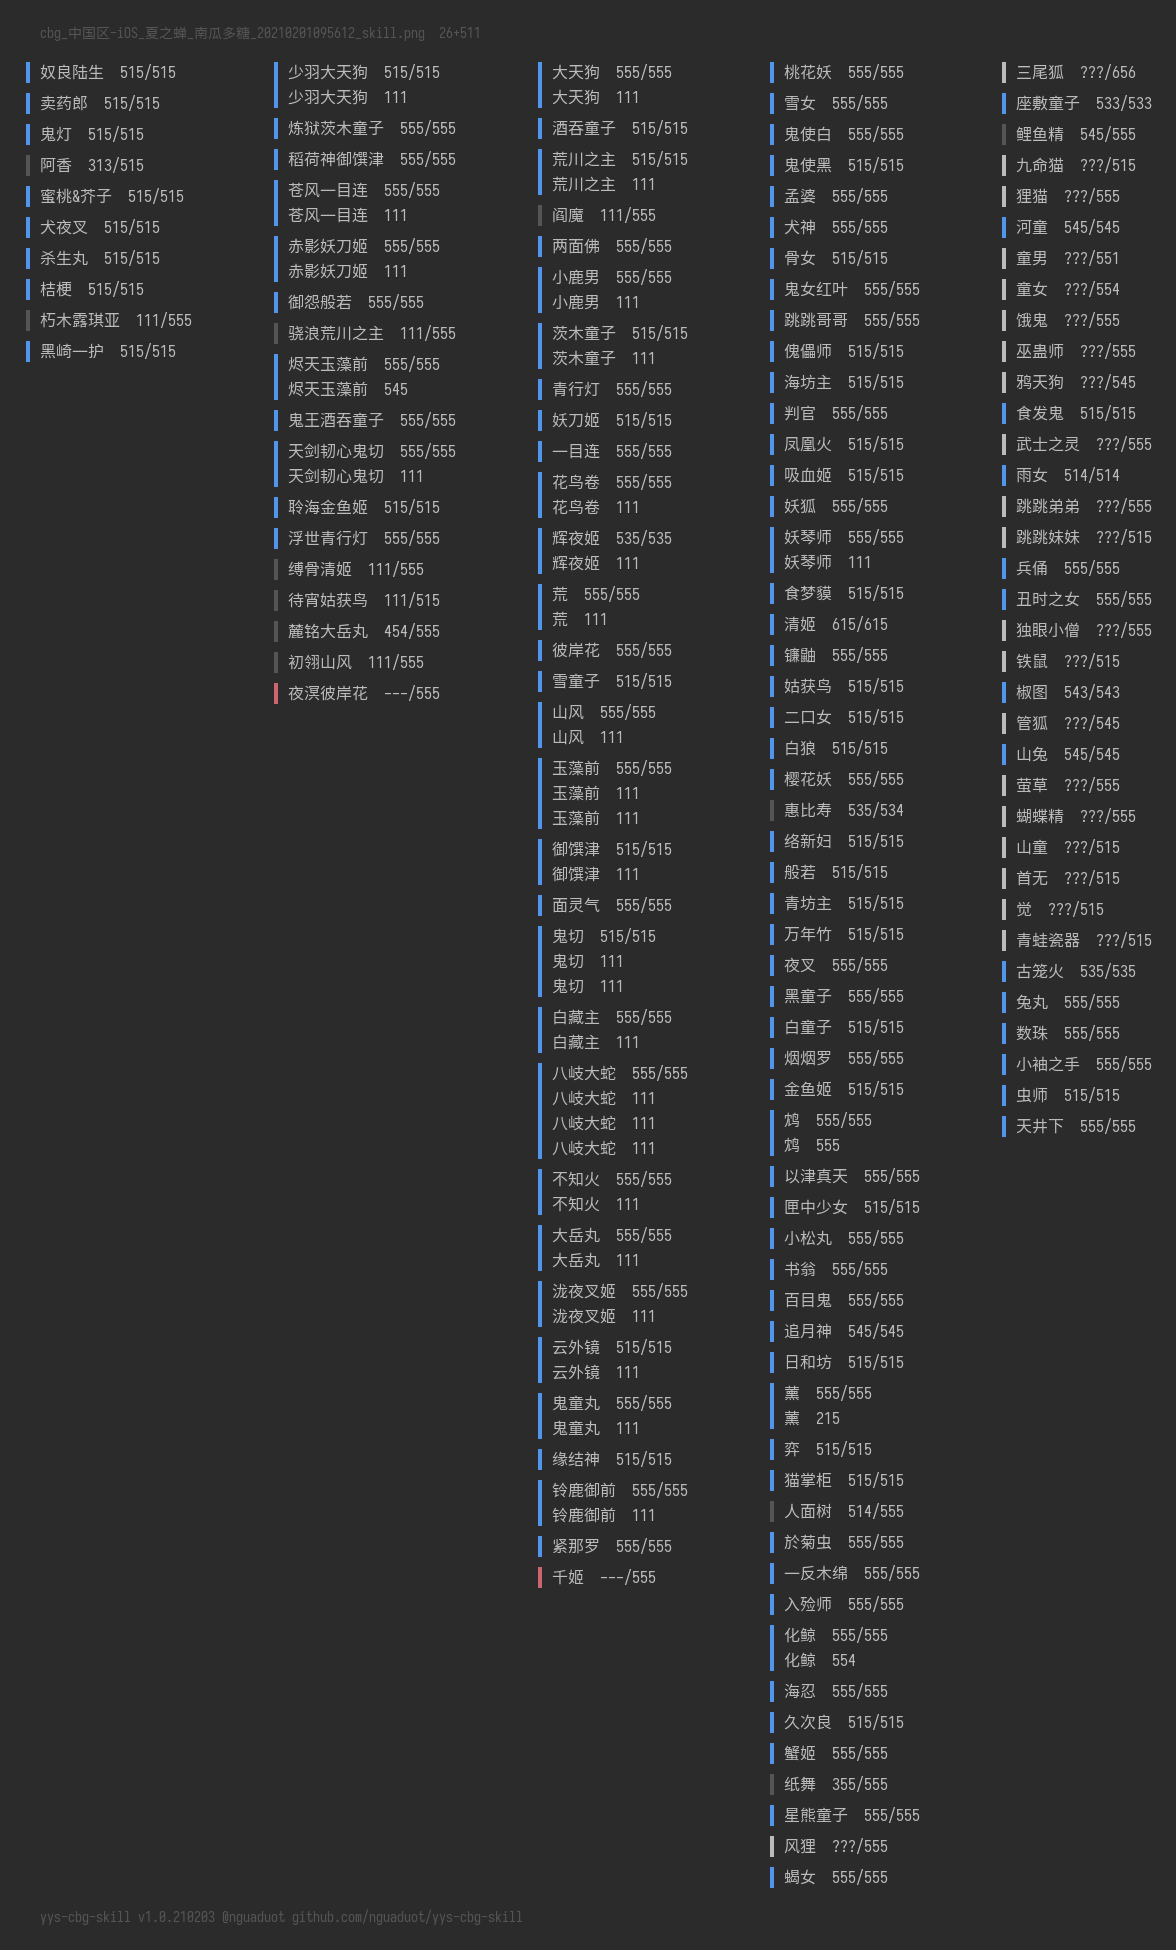
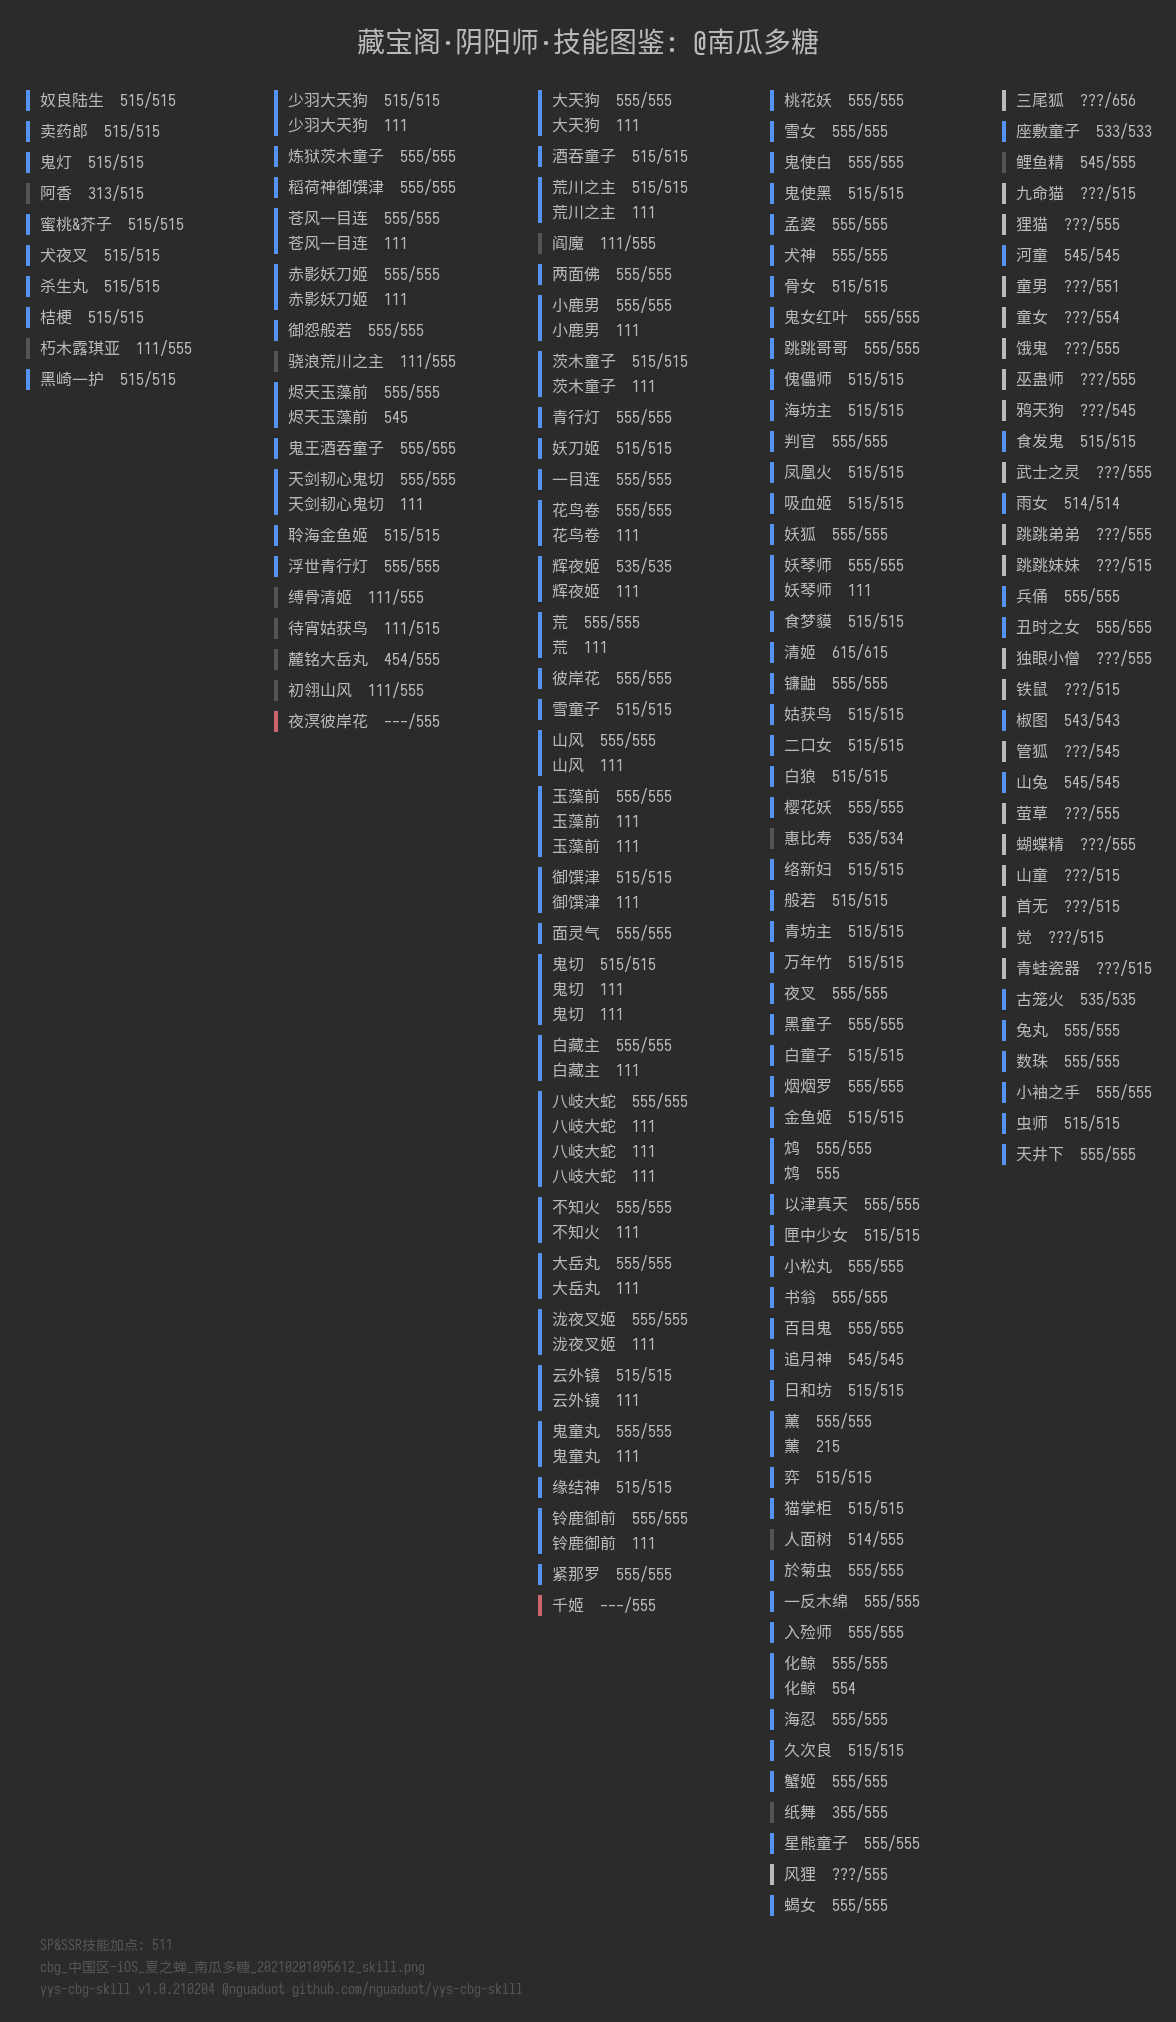
v1.0

diff --git a/code/cbg_skill.py b/code/cbg_skill.py
@@ -7,8 +7,8 @@
 # 了解更多请前往 GitHub 查看项目：https://github.com/nguaduot/yys-cbg-skill
 #
 # author: @nguaduot 痒痒鼠@南瓜多糖
-# version: 1.0.210203
-# date: 20210203
+# version: 1.0.210205
+# date: 20210205
 
 import datetime
 import getopt
@@ -21,13 +21,14 @@ import re
 import sys
 from threading import Thread
 from urllib import request
+from urllib import parse
 
 from modules import output
 
 PROG = 'yys-cbg-skill'
 AUTH = 'nguaduot'
 VER = '1.0'
-VERSION = '1.0.210203'
+VERSION = '1.0.210205'
 REL = 'github.com/nguaduot/yys-cbg-skill'
 COPYRIGHT = '%s v%s @%s %s' % (PROG, VERSION, AUTH, REL)
 HELP = '''+ 选项：
@@ -37,7 +38,8 @@ HELP = '''+ 选项：
 + 若未指定 -u, 程序会读取未知参数, 若也无未知参数, 不启动程序'
 + 不带任何参数也可启动程序, 会有参数输入引导'''
 
-HERO_RARITY = ['', 'N', 'R', 'SR', 'SSR', 'SP']  # 式神稀有度索引
+HERO_RARITY = {5: 'sp', 4: 'ssr', 3: 'sr', 2: 'r', 1: 'n'}  # 式神稀有度索引
+RARITY_SHOWN = ['x', 'sp', 'ssr', 'sr', 'r']  # 设定显示的稀有度，其他则不显示(X为联动)
 HERO_ONMYOJI = {
     10: '晴明', 11: '神乐', 13: '源博雅', 12: '八百比丘尼',
     900: '神龙', 901: '白藏主', 903: '黑豹', 902: '孔雀'
@@ -201,7 +203,35 @@ HERO_SKILL_MAX = {
     '小袖之手': '555',
     '虫师': '515',
     '天井下': '555',
-    '垢尝': '515'
+    '垢尝': '515',
+    # N卡
+    '灯笼鬼': '534',
+    '提灯小僧': '515',
+    '赤舌': '555',
+    '盗墓小鬼': '511',
+    '寄生魂': '511',
+    '唐纸伞妖': '515',
+    '天邪鬼绿': '515',
+    '天邪鬼赤': '511',
+    '天邪鬼黄': '511',
+    '天邪鬼青': '511',
+    '帚神': '515',
+    '涂壁': '511',
+    # 呱
+    '大天狗呱': '515',
+    '酒吞呱': '515',
+    '荒川呱': '515',
+    '阎魔呱': '515',
+    '两面佛呱': '515',
+    '小鹿男呱': '515',
+    '茨木呱': '515',
+    '青行灯呱': '515',
+    '妖刀姬呱': '515',
+    '一目连呱': '515',
+    '花鸟卷呱': '515',
+    '辉夜姬呱': '515',
+    '荒呱': '515',
+    '彼岸花呱': '515'
 }  # 式神技能等级上限, 使用 HERO_SKILL_MAX.get(x, x) 取值而非 HERO_SKILL_MAX[x]
 
 USER_AGENT = ('Mozilla/5.0 (Windows NT 10.0; Win64; x64)'
@@ -212,7 +242,7 @@ DATA_SOURCE_CONFIG = None
 DATA_SOURCE_EQUIP = None
 
 
-def save(data_equip, data_hero_book, damo_yx_own_cost):
+def save(data_equip, data_hero_book, damo_yx_cost):
     dir_cbg = path.join(path.dirname(path.abspath(sys.argv[0])), 'cbg')
     if not path.isdir(dir_cbg):
         os.mkdir(dir_cbg)
@@ -220,7 +250,8 @@ def save(data_equip, data_hero_book, damo_yx_own_cost):
         return
     # 删除 Windows 文件名中不允许出现的字符, 以及无法正常显示且会导致 IO 异常的控制字符
     # 使用当前卖家角色昵称 equip_name，而非 seller_name，其会随买家再次上架而改变
-    seller = re.sub(
+    seller = data_equip['equip']['equip_name']
+    seller2 = re.sub(
         r'[\\/:?"<>|\u0000-\u001F\u007F-\u009F]', '',
         data_equip['equip']['equip_name']
     )
@@ -228,7 +259,7 @@ def save(data_equip, data_hero_book, damo_yx_own_cost):
                                    '%Y-%m-%d %H:%M:%S')
     file_base = path.join(dir_cbg, 'cbg_%s_%s_%s_%s' % (
         data_equip['equip']['area_name'], data_equip['equip']['server_name'],
-        seller, t.strftime('%Y%m%d%H%M%S')
+        seller2, t.strftime('%Y%m%d%H%M%S')
     ))
     file_source = '%s.json' % file_base
     file_result = '%s_skill.png' % file_base
@@ -238,9 +269,12 @@ def save(data_equip, data_hero_book, damo_yx_own_cost):
         json.dump(data_equip, f)
     print(log('已保存源数据 \'%s\'' % path.basename(file_source), 'info'))
     if output.enabled():
-        head = path.basename(file_result) + '  %d+%d' % damo_yx_own_cost
+        title = '藏宝阁·阴阳师·技能图鉴: @%s' % seller
+        feet = ('SP&SSR技能加点: %d' % damo_yx_cost,
+                path.basename(file_result),
+                COPYRIGHT)
         output.text2img(file_result, data_hero_book,
-                        head=head, foot=COPYRIGHT)
+                        title=title, feet=feet)
         print(log('已保存结果 \'*_%s\'' % file_result.rsplit('_', 1)[1], 'info'))
         view(file_result)
     else:
@@ -248,19 +282,19 @@ def save(data_equip, data_hero_book, damo_yx_own_cost):
                   % file_result.rsplit('_', 1)[1], 'warn'))
 
 
-def get_damo_yx(data_equip):
+def get_damo_yx_cost(data_equip):
     data_game = json.loads(data_equip['equip']['equip_desc'])
-    data_damo = data_game['damo_count_dict']
+    # data_damo = data_game['damo_count_dict']
     data_heroes = list(data_game['heroes'].values())
     data_sp_ssr = [item for item in data_heroes if (
         item['rarity'] == 5 or item['rarity'] == 4
     ) and item['heroId'] not in HERO_ONMYOJI]
-    sum_own = sum([num for damoes in data_damo.values()
-                   for damo, num in damoes.items()
-                   if damo == '411'])
+    # sum_own = sum([num for damoes in data_damo.values()
+    #                for damo, num in damoes.items()
+    #                if damo == '411'])
     sum_cost = sum([max(info[1] - 1, 0) for hero in data_sp_ssr
                     for info in hero['skinfo']])
-    return sum_own, sum_cost
+    return sum_cost
 
 
 def get_hero_book(data_config):
@@ -269,8 +303,6 @@ def get_hero_book(data_config):
         # [200, '桃花妖', 3, 'taohuayao']
         # 200: 式神 ID
         # 3: 稀有度索引(5 SP 4 SSR 3 SR 2 R 1 N + 呱 + 素材)
-        if item[2] < 2:  # 跳过 N + 呱 + 素材
-            continue
         result[item[1]] = {
             'rarity': item[2],
             'sort': item[0],
@@ -290,8 +322,7 @@ def get_hero_x(data_equip):
 def get_hero_own(data_equip):
     data_game = json.loads(data_equip['equip']['equip_desc'])
     data_heroes = [item for item in data_game['heroes'].values()
-                   if item['rarity'] >= 2
-                   and item['heroId'] not in HERO_ONMYOJI]
+                   if item['heroId'] not in HERO_ONMYOJI]
 
     result = {}
     for item in data_heroes:
@@ -427,8 +458,7 @@ def main():
         print(COPYRIGHT)
         url_equip = input('藏宝阁链接: ')
 
-    # data_config = fetch_config()
-    # data_equip = fetch_equip(url_equip)
+    # 抓取数据(多线程)
     thread_fetch_config = Thread(target=fetch_config)
     thread_fetch_equip = Thread(target=fetch_equip, args=(url_equip,))
     thread_fetch_config.start()
@@ -436,29 +466,43 @@ def main():
     thread_fetch_config.join()
     thread_fetch_equip.join()
     if not DATA_SOURCE_CONFIG or not DATA_SOURCE_EQUIP:
-        print(log('抓取数据过程出错', 'error'))
         return
+    
+    # 计算SP&SSR技能加点
+    damo_yx_cost = get_damo_yx_cost(DATA_SOURCE_EQUIP)
+    print(log('SP&SSR技能加点: %d' % damo_yx_cost, 'info'))
 
+    # 提取式神图鉴
     data_hero_book = get_hero_book(DATA_SOURCE_CONFIG)
 
+    # 识别联动式神
     data_hero_x = get_hero_x(DATA_SOURCE_EQUIP)
     for name, item in data_hero_book.items():
         item['x'] = name in data_hero_x
 
+    # 加入式神技能等级上限
     for name, item in data_hero_book.items():
         item['max'] = HERO_SKILL_MAX.get(name, None)
 
+    # 合并式神录
     data_hero_own = get_hero_own(DATA_SOURCE_EQUIP)
     for name, item in data_hero_book.items():
         if name in data_hero_own:
             item['all'] = data_hero_own[name]['all']
         else:  # 式神未拥有置 None，未知置空
             item['all'] = None if item['rarity'] >= 4 else []
+    
+    # 稀有度过滤
+    data_hero_book2 = {}
+    for name, item in data_hero_book.items():
+        if item['x']:
+            if 'x' in RARITY_SHOWN:
+                data_hero_book2[name] = item
+        elif HERO_RARITY[item['rarity']] in RARITY_SHOWN:
+            data_hero_book2[name] = item
 
-    damo_yx_own_cost = get_damo_yx(DATA_SOURCE_EQUIP)
-    print(log('黑蛋拥有量+推测已消耗量: %d+%d' % damo_yx_own_cost, 'info'))
-
-    save(DATA_SOURCE_EQUIP, data_hero_book, damo_yx_own_cost)
+    # 生成结果图片
+    save(DATA_SOURCE_EQUIP, data_hero_book2, damo_yx_cost)
 
 
 if __name__ == '__main__':

diff --git a/code/modules/output.py b/code/modules/output.py
@@ -20,9 +20,10 @@ from modules import util
 class Output(object):
     def __init__(self):
         self.__font_size = 16  # 主文本字体大小
-        self.__font_size_2 = 14  # 次文本字体大小
+        self.__font_size_title = 28  # 标题字体大小
+        self.__font_size_foot = 14  # 页脚字体大小
         self.__margin = (24, 24, 24, 24)  # 页边距
-        self.__margin_head = 20  # 页眉-正文间距
+        self.__margin_title = 30  # 标题-正文间距
         self.__margin_foot = 20  # 正文-页脚间距
         self.__margin_line = 4  # 行距
         self.__margin_paragraph = 10  # 段距
@@ -79,8 +80,9 @@ class Output(object):
                 height += height_line
         return max(width_lines), height
     
-    def _size_canvas(self, font, font_2, content, head, foot):
-        height_line_2 = sum(font_2.getmetrics())
+    def _size_canvas(self, font, font_title, font_foot, content, title, feet):
+        height_line_title = sum(font_title.getmetrics())
+        height_line_foot = sum(font_foot.getmetrics())
         
         width_main = 0
         height_main = 0
@@ -90,33 +92,45 @@ class Output(object):
                 width_main += self.__margin_column
             width_main += self.__margin_tag + size_column[0]
             height_main = max(height_main, size_column[1])
-        if head:
-            width_main = max(width_main,
-                             self.__margin_tag + font_2.getsize(head)[0])
-            height_main += height_line_2 + self.__margin_head
-        if foot:
-            width_main = max(width_main,
-                             self.__margin_tag + font_2.getsize(foot)[0])
-            height_main += self.__margin_foot + height_line_2
+        if title:
+            width_main = max(
+                width_main,
+                self.__margin_tag * 2 + font_title.getsize(title)[0]
+            )
+            height_main += height_line_title + self.__margin_title
+        if feet:
+            height_main += self.__margin_foot
+            for line in feet:
+                width_main = max(width_main,
+                                 self.__margin_tag + font_foot.getsize(line)[0])
+                height_main += height_line_foot + self.__margin_line
+            height_main -= self.__margin_line
         return (width_main + self.__margin[0] + self.__margin[2],
                 height_main + self.__margin[1] + self.__margin[3])
 
-    def text2img(self, file_font, file_out, content, head=None, foot=None):
-        font = ImageFont.truetype(file_font, size=self.__font_size)  # 主文本字体
-        font_2 = ImageFont.truetype(file_font, size=self.__font_size_2)  # 次文本字体
-        size_img = self._size_canvas(font, font_2, content, head, foot)  # 预计算图片大小
+    def text2img(self, file_font, file_out, content, title, feet):
+        font = ImageFont.truetype(
+            file_font, size=self.__font_size
+        )  # 主文本字体
+        font_title = ImageFont.truetype(
+            file_font, size=self.__font_size_title
+        )  # 标题字体
+        font_foot = ImageFont.truetype(
+            file_font, size=self.__font_size_foot
+        )  # 页脚字体
+        size_img = self._size_canvas(
+            font, font_title, font_foot, content, title, feet
+        )  # 预计算图片大小
         image = Image.new('RGB', size_img, self.__color_bg)
         draw = ImageDraw.Draw(image)
         # 放弃通过 font.getsize('xx')[1] 计算行高
         height_line = sum(font.getmetrics())  # 主文本行高
-        height_line_2 = sum(font_2.getmetrics())  # 次文本行高
-        index_column_line = [[self.__margin[0] + self.__margin_tag,
-                              self.__margin[1]]]  # 下一行索引
-        index_paragraphs = []  # 段索引
-        if head:  # 绘制页眉
-            draw.text(index_column_line[0], head,
-                      fill=self.__color_fg_2, font=font_2)
-            index_column_line[0][1] += height_line_2 + self.__margin_head
+        height_line_title = sum(font_title.getmetrics())  # 标题行高
+        height_line_foot = sum(font_foot.getmetrics())  # 页脚行高
+        index_column_line = [[
+            self.__margin[0] + self.__margin_tag,
+            self.__margin[1] + height_line_title + self.__margin_title
+        ]]  # 下一行索引
         for column in content:
             size_column = self._size_column(font, column)
             index_column_line.append([
@@ -124,6 +138,7 @@ class Output(object):
                 + self.__margin_column + self.__margin_tag,
                 index_column_line[0][1]
             ])
+        index_paragraphs = []  # 段索引
         for i, column in enumerate(content):
             index_line = index_column_line[i]
             for j, paragraph in enumerate(column):
@@ -142,13 +157,20 @@ class Output(object):
                 index_paragraphs.append({
                     'index': index_paragraph, 'level': tag_level
                 })
-        if foot:  # 绘制页脚
-            index_line = [index_column_line[0][0],
+        if title:  # 绘制标题
+            index_title = ((size_img[0] - font_title.getsize(title)[0]) / 2,
+                           self.__margin[1])
+            draw.text(index_title, title,
+                      fill=self.__color_fg, font=font_title)
+        if feet:  # 绘制页脚
+            index_line = [self.__margin[0] + self.__margin_tag,
                           max([index[1] for index in index_column_line])]
             index_line[1] -= self.__margin_line
             index_line[1] += self.__margin_foot
-            draw.text(index_line, foot, fill=self.__color_fg_2, font=font_2)
-            index_line[1] += height_line_2 + self.__margin_line
+            for line in feet:
+                draw.text(index_line, line, fill=self.__color_fg_2,
+                          font=font_foot)
+                index_line[1] += height_line_foot + self.__margin_line
         # self._draw_mark_margin(draw, MARGIN, size_img)
         self._draw_mark_paragraph(draw, index_paragraphs)
         image.save(file_out, 'png')
@@ -224,9 +246,10 @@ def enabled():
     return util.font_ok()
 
 
-def text2img(file_out, data, head=None, foot=None):
+def text2img(file_out, data, title=None, feet=None):
     o = Output()
-    o.text2img(util.font(), file_out, _data2text(data), head, foot)
+    o.text2img(util.font(), file_out, _data2text(data),
+               title, feet if feet else [])
 
 
 if __name__ == '__main__':

diff --git a/readme.md b/readme.md
@@ -1,7 +1,7 @@
-# 技能图鉴
+# 藏宝阁·阴阳师·技能图鉴
 
-[![Release](https://img.shields.io/badge/Release-1.0-brightgreen.svg)](https://github.com/nguaduot/yys-cbg-skill)
-[![Download](https://img.shields.io/badge/Download-EXE-brightgreen.svg)](dist/%E6%8A%80%E8%83%BD%E5%9B%BE%E9%89%B41.0.exe)
+[![Release](https://img.shields.io/badge/Release-1.0-brightgreen.svg?style=flat-square)](https://github.com/nguaduot/yys-cbg-skill)
+[![Download](https://img.shields.io/badge/Download-EXE-brightgreen.svg?style=flat-square)](dist/%E6%8A%80%E8%83%BD%E5%9B%BE%E9%89%B41.0.exe)
 
 [阴阳师藏宝阁](https://yys.cbg.163.com/)衍生小工具，用于生成商品号的式神图鉴&技能速览图。
 
@@ -10,7 +10,7 @@
 + **SP**、**SSR** 阶稀有度式神未拥有标记（红色）
 + 式神技能等级
 + 多号机情况
-+ 黑蛋拥有量+推测已消耗量
++ SP&SSR技能升级次数统计
 
 例：
 
@@ -55,5 +55,5 @@ python cbg_skill.py -h
 
 ### 更新日志
 
-v1.0.210204
+v1.0.210205
 + 第一版发布
